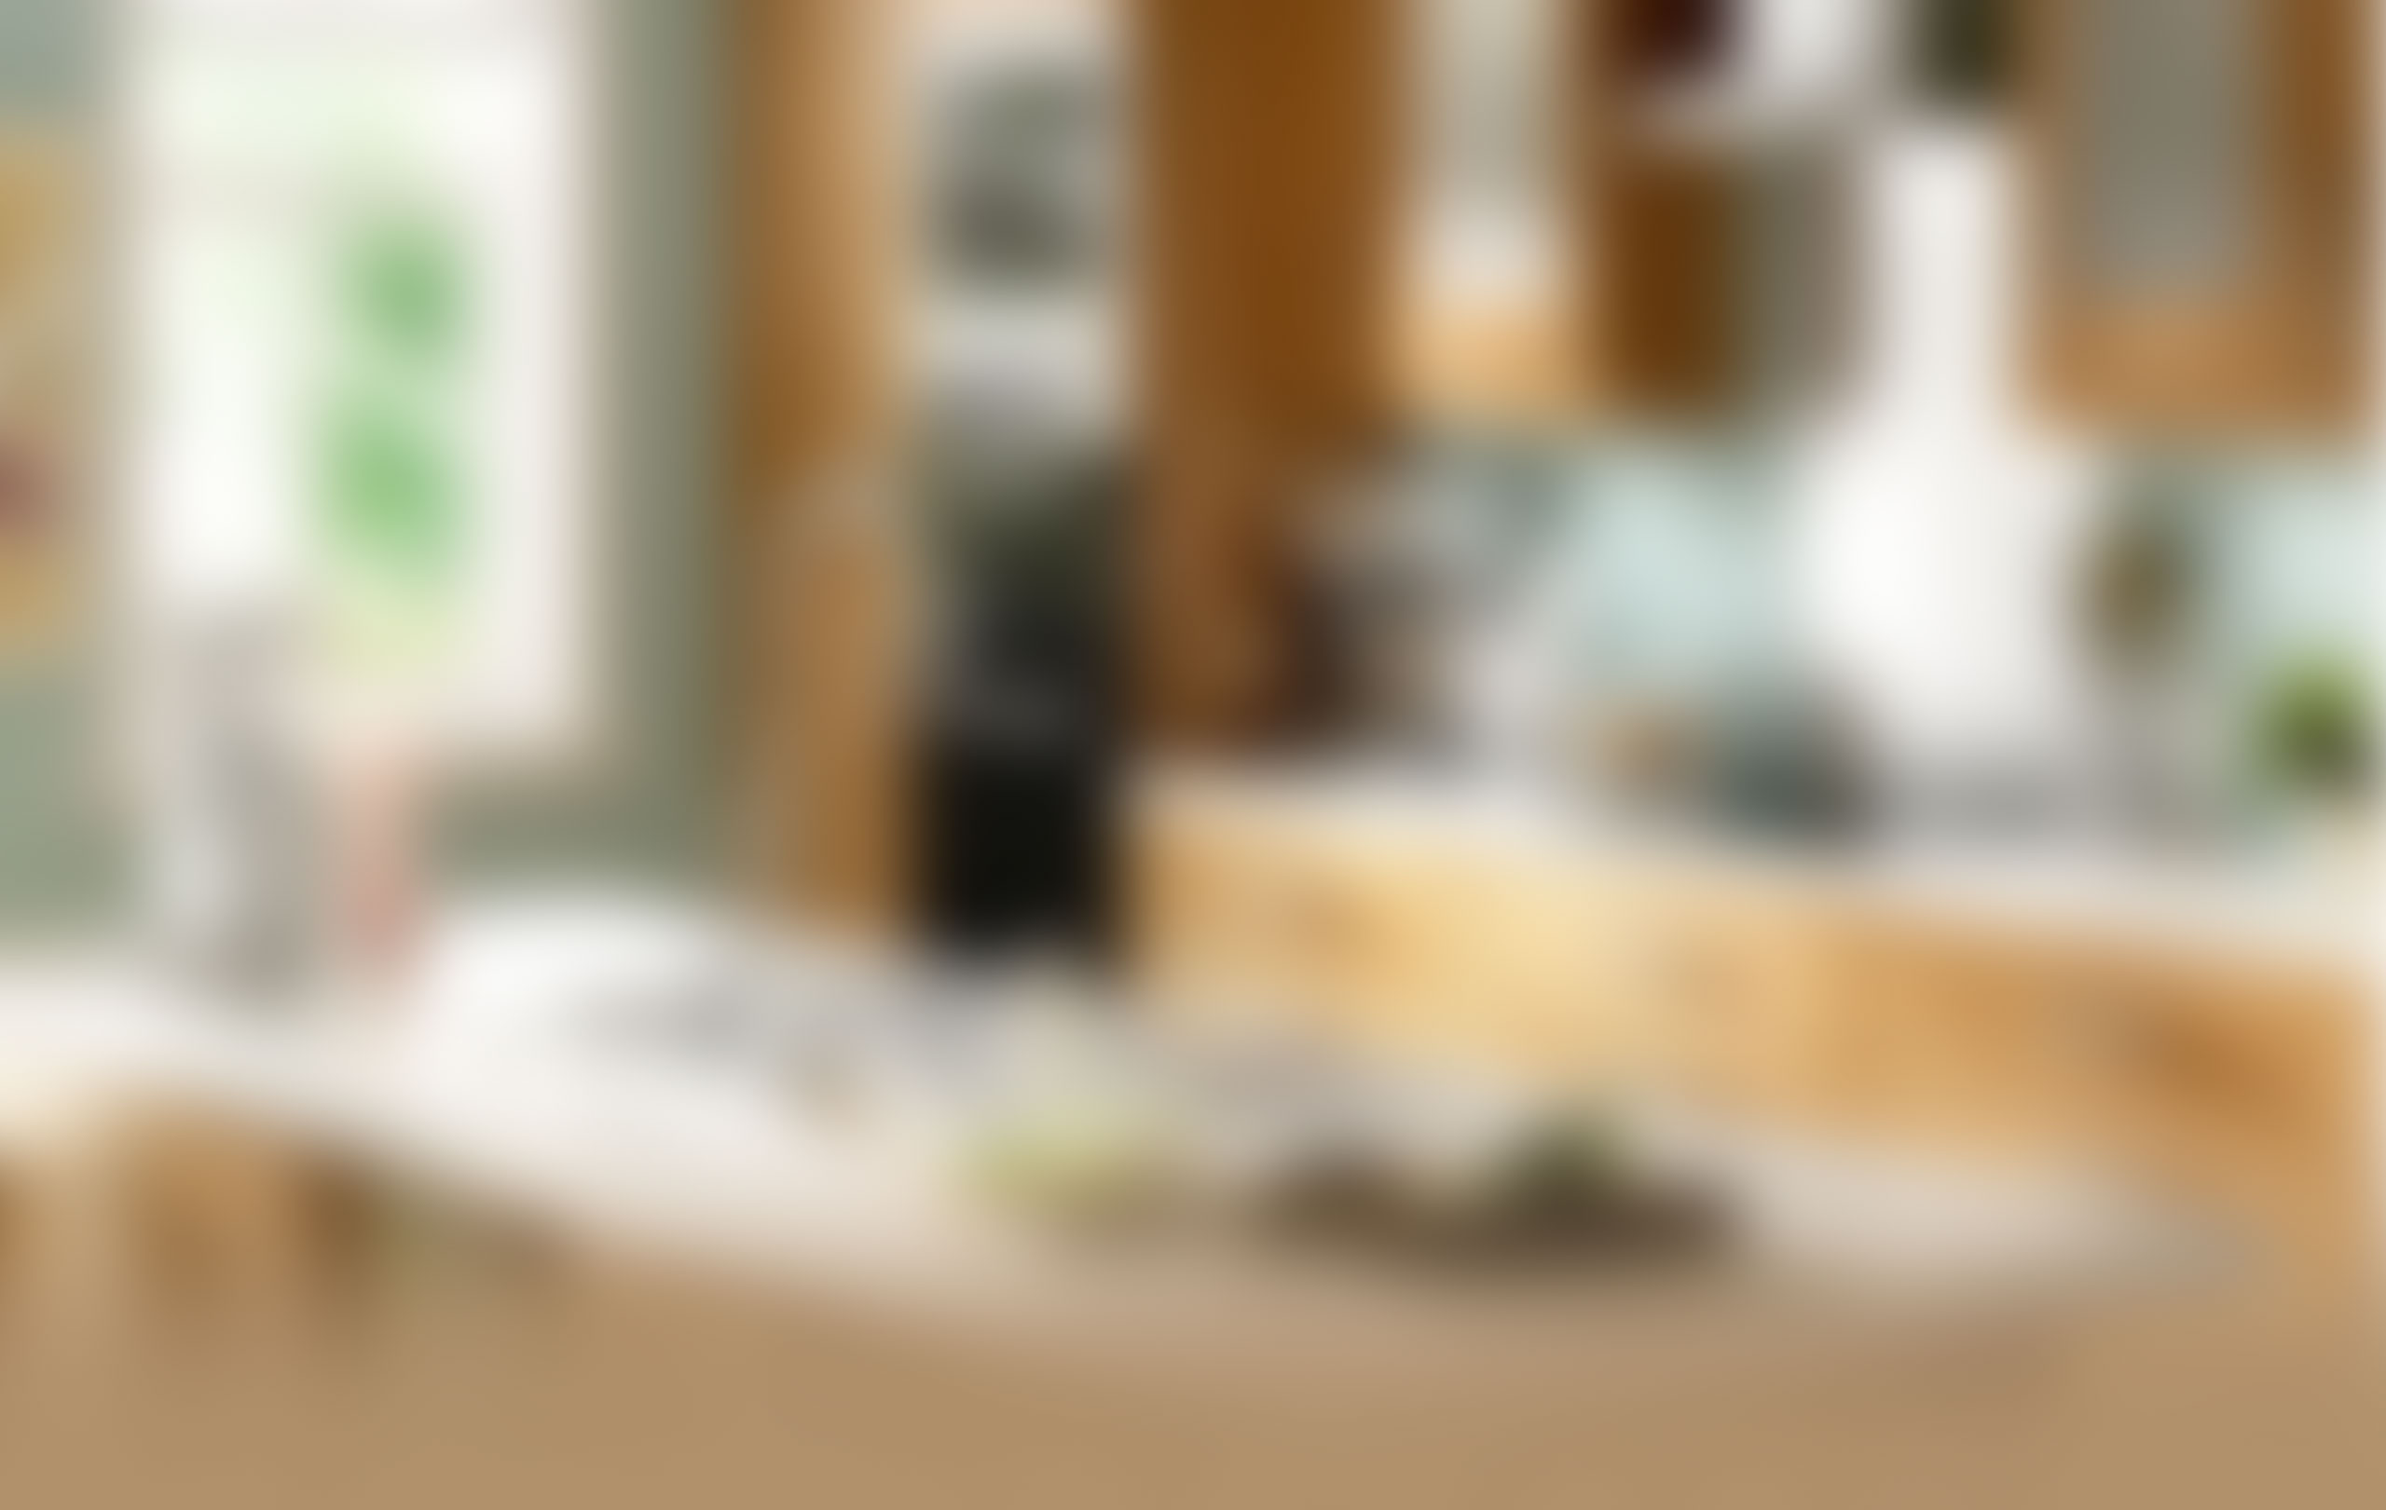
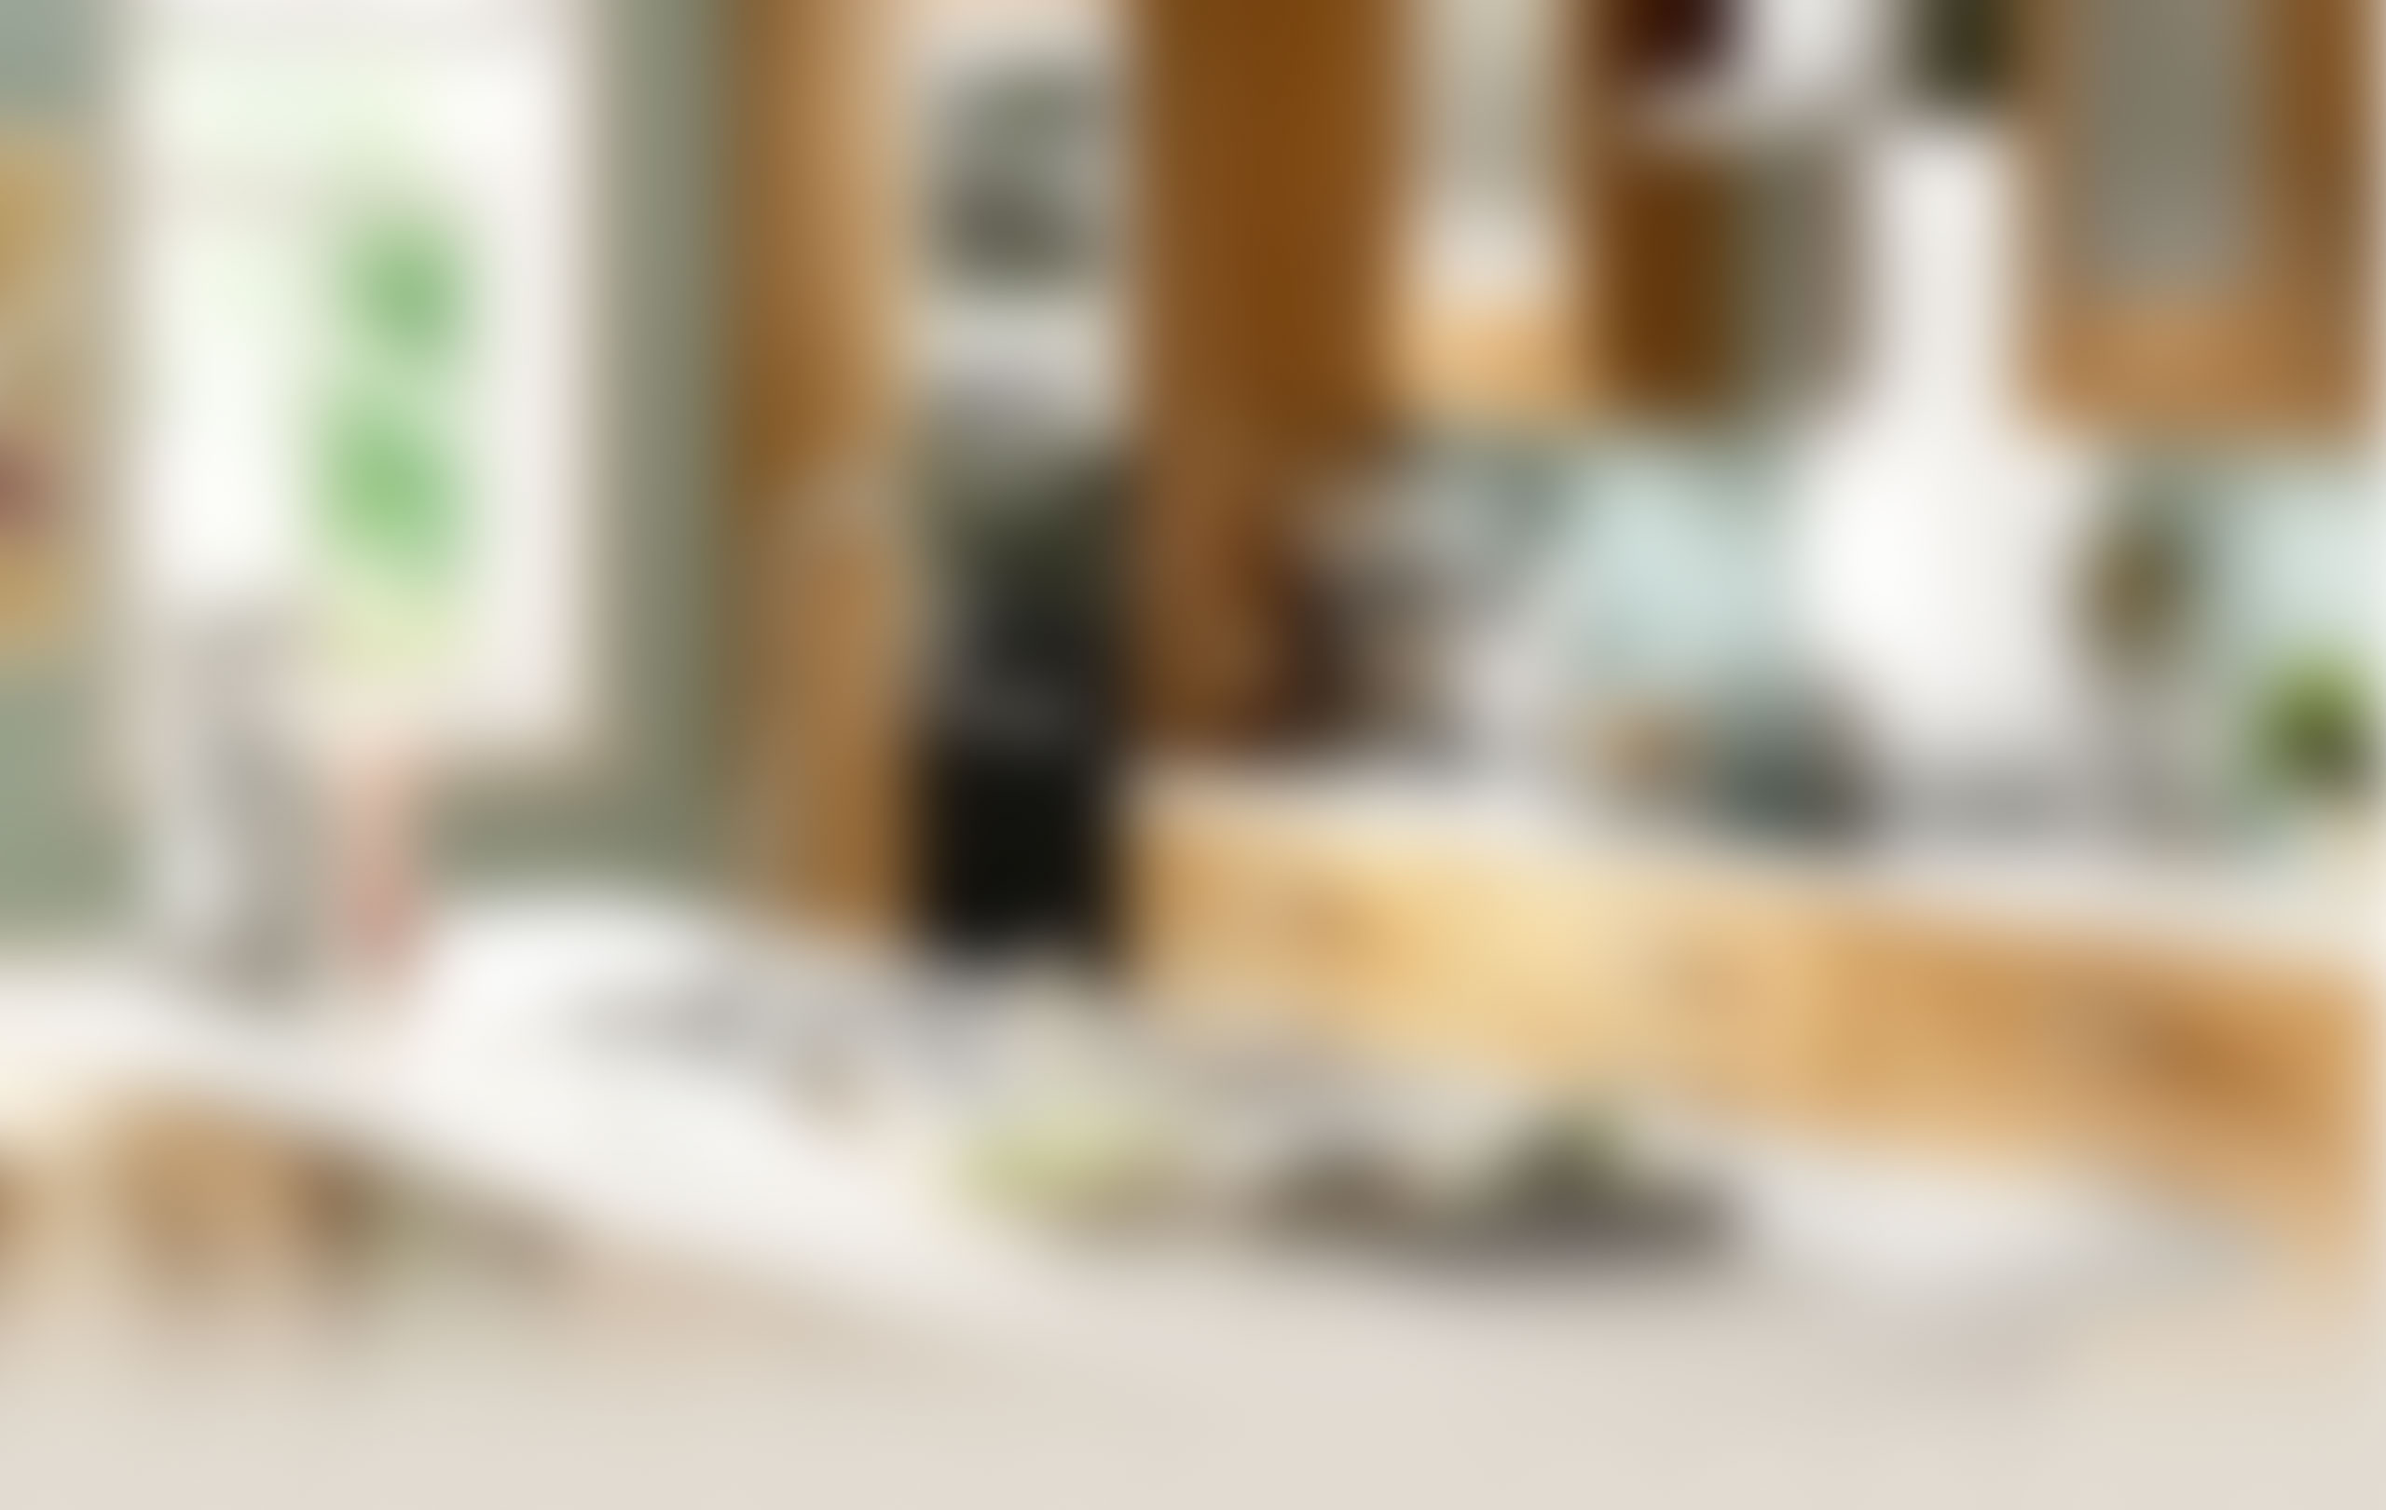
Background

Changed region(s): [[0.0, 0.7711, 1.0, 1.0]]

diff --git a/css/modern-business.css b/css/modern-business.css
@@ -16,7 +16,7 @@ body {
     background-image: url('../img/about/bg.jpg');
     background-size: cover;
     background-repeat: no-repeat;
-    background-color: #b0906c;
+    background-color: #e2dcd2;
 }
 
 .page-container {
